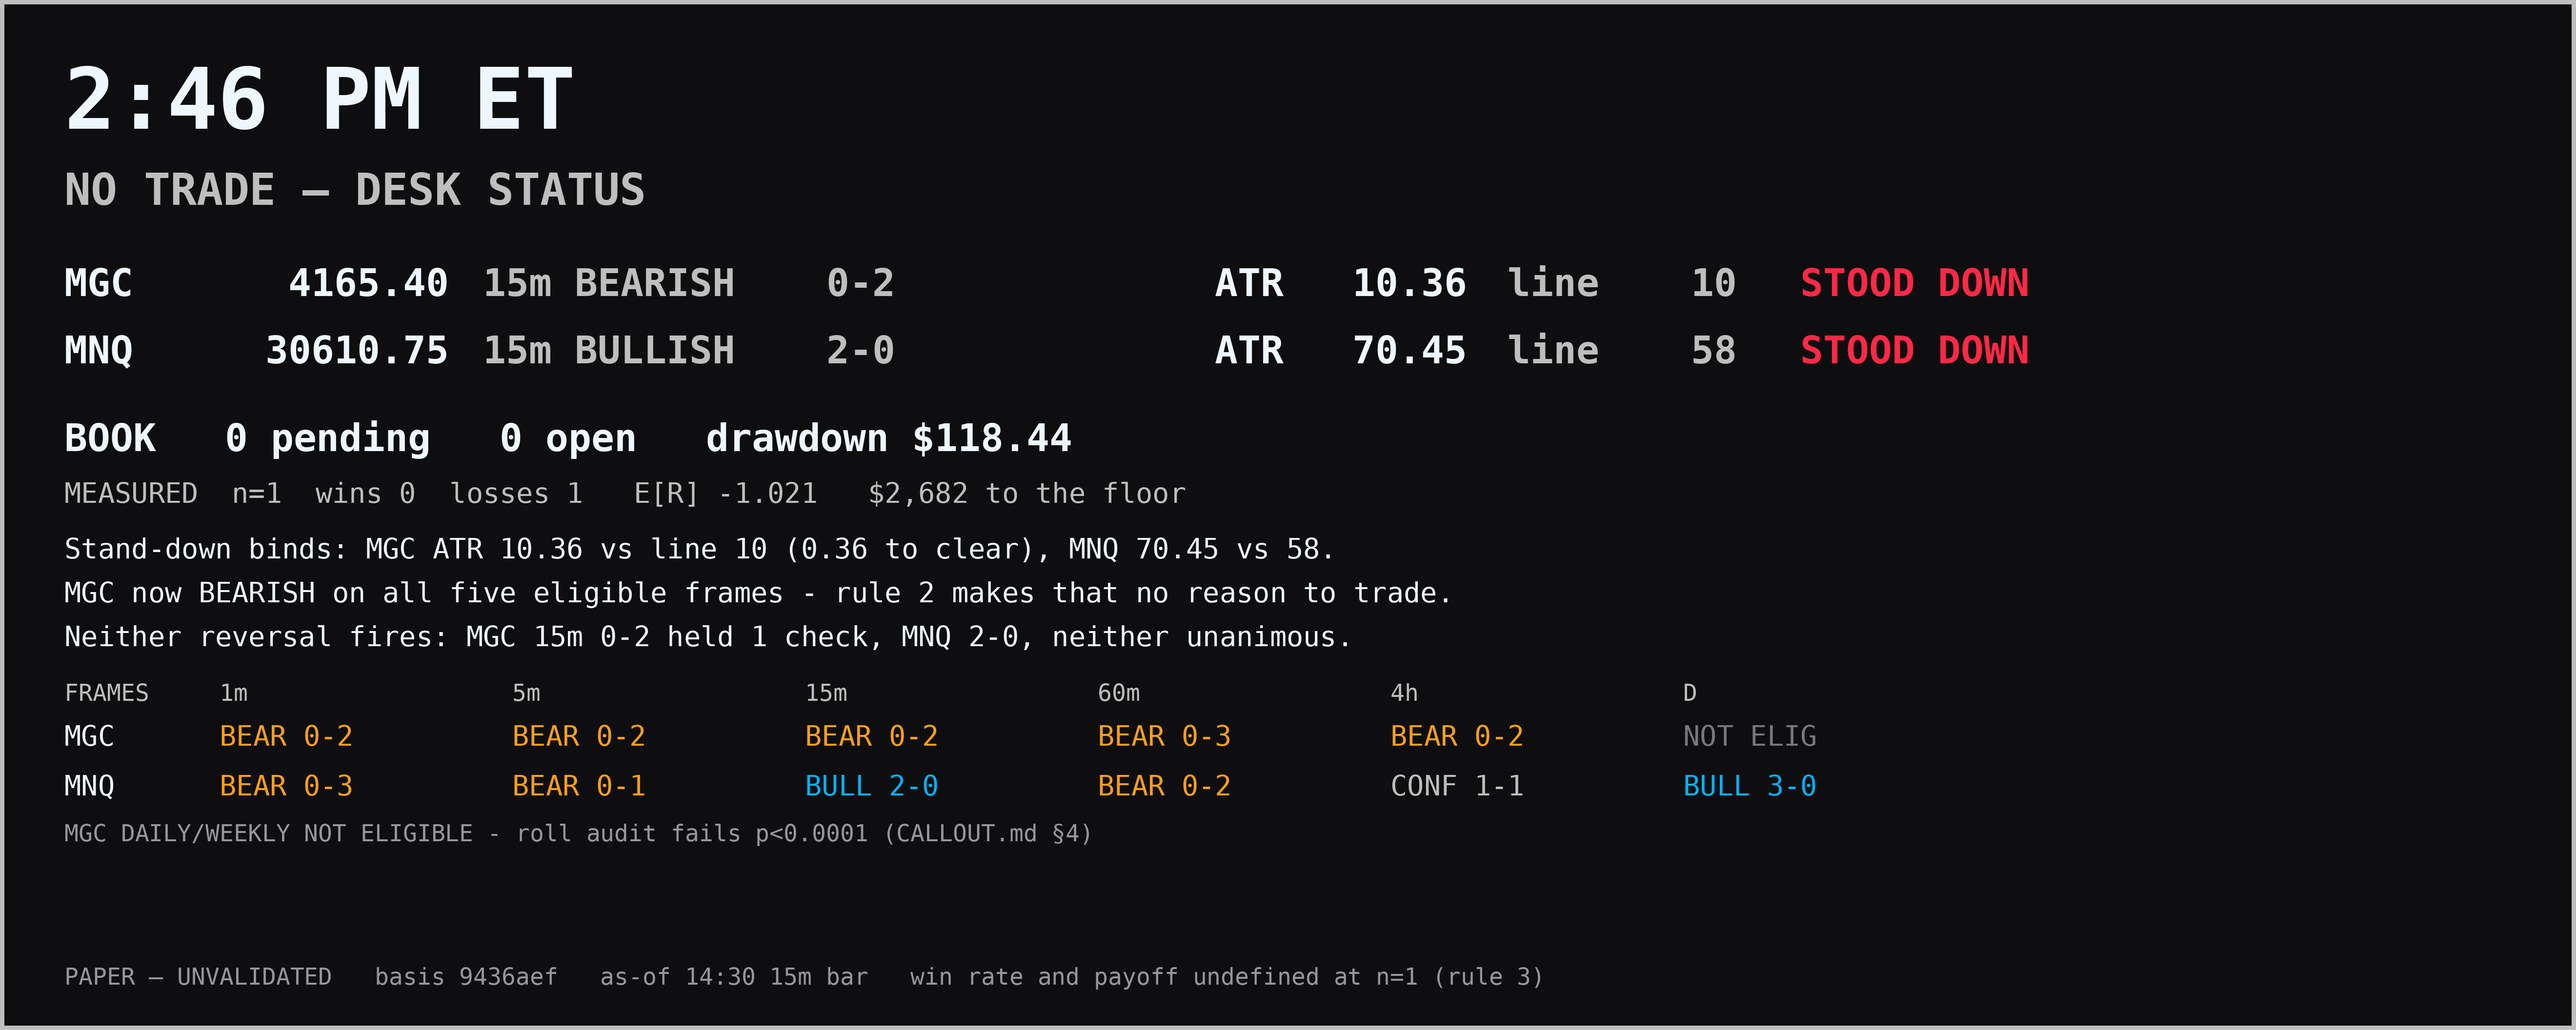
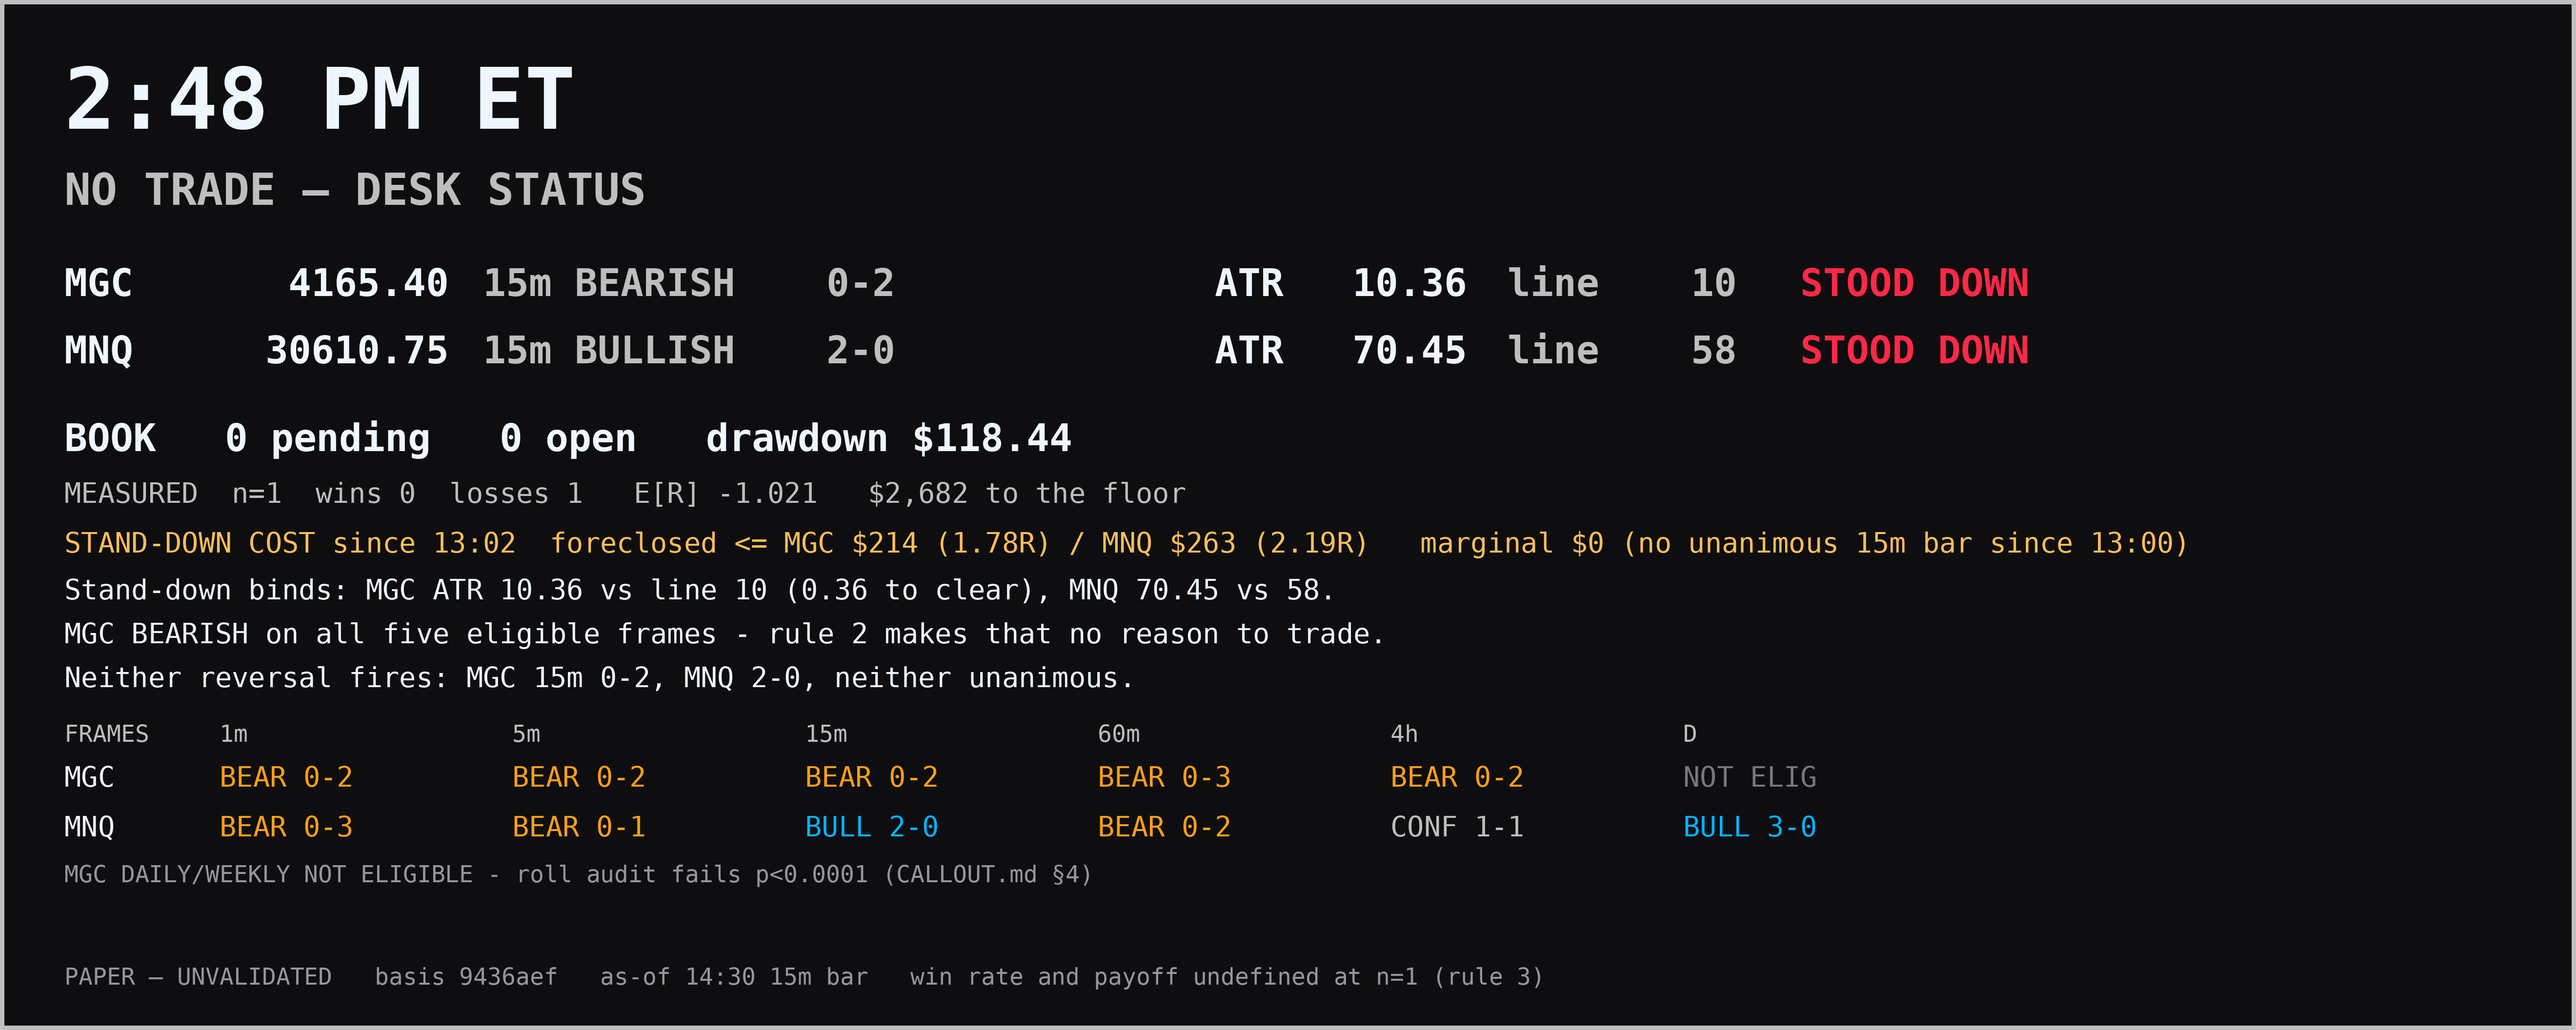
CALL desk: DECISIONS.md - every veto and change now priced with foreclosed/marginal/realized columns (N218, owner's instruction)
- nothing in this desk recorded a REFUSAL, so vetoes looked free and won by default
- stand-down 13:02-14:48: foreclosed <= MGC $214 (1.78R) / MNQ $263 (2.19R), marginal $0
  because zero unanimous 15m bars printed since 13:00 - luck from three overlapping failures,
  not vindication
- the expensive row is 09:30-11:30 declining the trend on 'extended move': MGC $902/ct,
  MNQ $805/ct, marginal equal to the upper bound because the gate was unsatisfiable (N194)
- status card now carries an amber STAND-DOWN COST line whenever a veto binds

Claude-Session: https://claude.ai/code/session_01EE6PFk7fGa2tM4KP6dpfWD

diff --git a/workspace/paper/CALL/status_card.py b/workspace/paper/CALL/status_card.py
@@ -59,7 +59,12 @@ def gather() -> dict:
             "cap_x": CAP / (a * SPEC[sym]["pv"]),
         })
     basis = (HERE / "BASIS").read_text().strip()
-    return {"state": st, "pending": pending, "rows": rows, "basis": basis}
+    cost = ""
+    try:
+        cost = (HERE / "standdown_cost.txt").read_text().strip()
+    except OSError:
+        pass
+    return {"state": st, "pending": pending, "rows": rows, "basis": basis, "cost": cost}
 
 
 def render(out: pathlib.Path, reason: str) -> pathlib.Path:
@@ -105,7 +110,14 @@ def render(out: pathlib.Path, reason: str) -> pathlib.Path:
             f"MEASURED  n={len(closed)}  wins {len(wins)}  losses {len(closed)-len(wins)}"
             f"   E[R] {exp:+.3f}   ${2800 - st['drawdown']:,.0f} to the floor",
             font=f_sm, fill=las)
-    y += C.sc(38)
+    y += C.sc(34)
+    # THE PRICE OF THE CAUTION. A veto that is never costed always looks free (DECISIONS.md),
+    # so when a stand-down binds the card carries what it has foreclosed since it went on -
+    # the movement actually available, as an upper bound, beside the marginal cost given that
+    # the reversal gate may not have fired at all. The owner should not have to ask.
+    if any(r["stood"] for r in d["rows"]) and d.get("cost"):
+        dr.text((C.sc(44), y), d["cost"], font=f_sm, fill=(255, 190, 90))
+        y += C.sc(32)
     for line in reason.split("\n")[:3]:
         dr.text((C.sc(44), y), line, font=f_sm, fill=C.WHITE)
         y += C.sc(30)

diff --git a/workspace/paper/CALL/DECISIONS.md b/workspace/paper/CALL/DECISIONS.md
@@ -1,0 +1,70 @@
+# DECISION LEDGER — every call, every veto, every change, with what it cost
+
+Owned by agent CALL. Created 2026-09-28 at the account owner's instruction:
+
+> *"keep in mind that every call and stand down is an action you are making. please understand
+> that everything has an opportunity loss and i would like you to reflect everytime you change
+> your decision or make an update."*
+
+**He is right and the omission was structural.** `journal.jsonl` records plans. `state.json`
+records fills. **Nothing recorded a refusal**, so the desk's entire afternoon — eleven straight
+checks of "empty book, measured reason" — left no trace that any decision had been made at all.
+A veto that costs nothing to write and is never priced will always look free, and will therefore
+always win the argument against a trade. That is not conservatism; it is an accounting error
+with a direction.
+
+**The rule from here: every decision gets a row, and every row carries its cost.** A stand-down
+is an action. A rule installed is an action. A cadence change is an action. Changing my mind is
+an action, and the reflection is part of the change, not an optional extra afterwards.
+
+---
+
+## How cost is measured, so it cannot be argued into whatever suits me
+
+Three columns, all computable, none requiring me to imagine a trade I did not write:
+
+- **FORECLOSED** — what the decision made impossible. For a veto, the movement available in its
+  window, in points and dollars and R at the maximum permitted stop. This is an **upper bound**:
+  it assumes a perfect entry at the turn, which nobody gets.
+- **MARGINAL** — what it cost *given the rest of the machinery*. If the desk's own gate would
+  have produced no plan in that window anyway, the veto's marginal cost is **zero**, and saying
+  so is not an excuse, it is the arithmetic.
+- **REALIZED** — actual dollars in `state.json`. Only fills produce this.
+
+Upper bound and marginal are different numbers and I will report both, because quoting only
+the second is how a veto flatters itself and quoting only the first is how a trade does.
+
+---
+
+## 2026-09-28
+
+| # | time | decision | foreclosed (upper bound) | marginal | realized |
+|---|---|---|---|---|---|
+| 1 | 08:00 | **CALL-0005 registered** MNQ LONG limit 30595.88 | — | — | $0 (expired unfilled) |
+| 2 | 09:30–11:30 | **Declined ~10 checks on "extended move"** through the session's largest decline | **MGC 90.20 pts = $902/ct; MNQ 402.75 pts = $805/ct** | **the full amount — the gate was unsatisfiable (N194 Cause 1), so nothing else would have stopped a trade** | $0 |
+| 3 | 11:35 | **Breakout prohibition installed** (N196) | every trend-continuation entry, permanently | measured **z −2.61 to −4.72 vs random in 4/4 cells**; expected value of the foreclosure is **positive** | — |
+| 4 | 11:37 | **CALL-0006 registered** MNQ SHORT | — | — | **−$118.44, −1.021R** |
+| 5 | 11:52 | **Unreachable-void rule installed** (N202), voided CALL-0001 | CALL-0001's remaining chance: **~6% measured probability of being reached at all** | ≈ $0 at a 6% reach rate | $0 |
+| 6 | 12:33 | **resolve.py entry-bar stop fix** | — | — | **turned a phantom open position into the −$118.44 loss that had actually happened.** Cost me the number; the number was already true |
+| 7 | 13:02 | **Volatility stand-down installed** (N214) | **MGC 21.40 pts = $214 = 1.78R; MNQ 131.50 pts = $263 = 2.19R** at max permitted stops | **$0 — zero unanimous 15m bars on either symbol since 13:00, so the reversal gate could not have fired and no plan would have existed** | $0 |
+| 8 | 13:04 | Cadence 5 min → 2 min (owner) | — | — | — |
+| 9 | 14:31 | **status_card.py — a card every check** (N217) | — | reversed a **two-hour communication blackout** on the only channel the owner reads | — |
+| 10 | 14:42 | Card moved to the bottom of the response (owner) | — | — | — |
+
+### What the tally actually says
+
+**Row 2 is the expensive one and it is not close.** Declining the morning trend cost an upper
+bound of **$902 and $805 per contract**, and its marginal cost was the *full* amount, because
+N194 established the gate could never have said yes — so no other part of the machinery would
+have caught it either. Every other decision on this sheet is noise beside it.
+
+**Row 7, the stand-down I have been quoting eleven times an hour, has a marginal cost of zero
+so far.** Not because the veto was wise but because **three failures overlapped**: the gate
+couldn't fire, the cadence was dead for 44 minutes of the window, and the best legs (13:05–13:15)
+fell inside that outage. That is luck, not vindication, and the moment a unanimous 15m bar
+prints while the stand-down is on, this row starts costing real money and I will say so on the
+card that check.
+
+**Row 6 is worth keeping visible.** Fixing the resolver *added* a loss to my own record. A
+change that can only make my numbers worse is the only kind I can make mid-session without
+suspicion, and it is the shape every future change should have.

diff --git a/workspace/paper/CALL/NOTES.md b/workspace/paper/CALL/NOTES.md
@@ -7806,3 +7806,61 @@ a number there would smuggle it back in.
 CHECK_PROCEDURE.md now carries the rule: **every check sends a card — plan cards when plans
 exist, the status card when they do not. If a check ends without a card, the check did not
 report, whatever was written.** The text report stays as the record; it is not the delivery.
+
+# N218 — 14:48, the owner's third correction: a stand-down is an ACTION, and I never priced one
+
+Owner, verbatim: *"keep in mind that every call and stand down is an action you are making.
+please understand that everything has an opportunity loss and i would like you to reflect
+everytime you change your decision or make an update."*
+
+**The omission was structural, not a lapse on one day.** `journal.jsonl` records plans.
+`state.json` records fills. **Nothing in this desk recorded a refusal.** So eleven consecutive
+checks of "empty book, measured reason" left no trace that any decision had been taken — and a
+veto costs nothing to write, so if it is never priced it looks free and therefore wins every
+argument against a trade by default. That is an accounting error with a direction, and I built
+two vetoes into the procedure today without once asking what either one costs.
+
+## Priced, now, with both numbers
+
+`DECISIONS.md` created, every decision of the day given a row and three columns: FORECLOSED
+(upper bound from the tape), MARGINAL (cost given the rest of the machinery), REALIZED (dollars
+in `state.json`). Reporting only the marginal is how a veto flatters itself; reporting only the
+upper bound is how a trade does. Both, always.
+
+**The volatility stand-down, 13:02 to now:**
+
+    foreclosed (upper bound)   MGC 21.40 pts = $214 = 1.78R   MNQ 131.50 pts = $263 = 2.19R
+    marginal                   $0
+
+Marginal zero because **zero unanimous 15m bars printed on either symbol since 13:00** — the
+reversal gate could not have fired, so no plan would have existed to veto. Reconstructed bar by
+bar, not asserted. **But that is luck, not vindication**: three failures overlapped — the gate
+couldn't fire, the cadence was dead for 44 of those minutes, and the best legs (13:05-13:15)
+fell inside that outage. The first unanimous bar that prints while the stand-down is on, this
+starts costing real money, and it goes on the card that check.
+
+## The row that actually matters, and it is not the stand-down
+
+| decision | foreclosed | marginal |
+|---|---|---|
+| **09:30-11:30 declining ~10 checks on "extended move"** | **MGC $902/ct, MNQ $805/ct** | **the full amount** |
+
+Marginal equals the upper bound there because N194 established the gate was *unsatisfiable* on a
+continuation day — no other part of the machinery would have caught it either. **Every other
+decision on the sheet is noise beside that one**, including the stand-down I have been quoting
+eleven times an hour, and I would not have seen the proportions without being told to write
+them down.
+
+One row worth keeping visible for its shape: **fixing `resolve.py`'s entry-bar stop check at
+12:33 ADDED a loss to my own record** (−$118.44 that was already true but unrecorded). A change
+that can only make my own numbers worse is the only kind that is safe to make mid-session, and
+it is the form every future change should take.
+
+## Installed
+
+- `DECISIONS.md` — the ledger, one row per decision, three cost columns.
+- CHECK_PROCEDURE.md — **every decision gets a row; a change of mind is a decision; the
+  reflection is part of making the change, not an optional extra afterwards.**
+- `status_card.py` — when a stand-down binds, the card carries an amber **STAND-DOWN COST** line
+  with the foreclosed upper bound and the marginal cost side by side, so the price of the desk's
+  caution is visible without anyone asking for it.

diff --git a/workspace/paper/CALL/CHECK_PROCEDURE.md b/workspace/paper/CALL/CHECK_PROCEDURE.md
@@ -849,3 +849,35 @@ above a wall of text he is scrolling past.
 **The text report still goes in the terminal and the notes still go in `NOTES.md`** — they are
 the record and the record matters. But they are not the delivery. **If a check ends without a
 card having been sent, the check did not report, whatever was written.**
+
+## EVERY DECISION IS AN ACTION AND EVERY ACTION HAS A COST. Price it, in `DECISIONS.md`.
+
+Added 2026-09-28 at the owner's instruction: *"every call and stand down is an action you are
+making… everything has an opportunity loss and i would like you to reflect everytime you change
+your decision or make an update."*
+
+**The omission this fixes was structural, not an oversight of mine on one day.** `journal.jsonl`
+records plans, `state.json` records fills, and **nothing recorded a refusal.** Eleven consecutive
+checks of "empty book, measured reason" left no trace that a decision had been made at all. A
+veto costs nothing to write, so if it is never priced it always looks free, and it therefore
+wins every argument against a trade by default. That is an accounting error with a direction.
+
+**The rule.** Every decision gets a row in `DECISIONS.md` carrying three separate numbers:
+
+- **FORECLOSED (upper bound)** — the movement available in the decision's window, in points,
+  dollars and R at the maximum permitted stop. Assumes a perfect entry at the turn, which
+  nobody gets. Computable from the tape; never an estimate of a trade I did not write.
+- **MARGINAL** — the cost *given the rest of the machinery*. If the reversal gate produced no
+  unanimous bar in that window, no plan could have existed and the veto's marginal cost is
+  **zero**. Stating that is arithmetic, not an excuse.
+- **REALIZED** — actual dollars in `state.json`. Only fills produce this.
+
+**Report both the upper bound and the marginal number, always.** Quoting only the marginal is
+how a veto flatters itself; quoting only the upper bound is how a trade does.
+
+**A change of mind is a decision too.** Installing a rule, retiring a plan, changing the cadence,
+changing what gets reported — each gets a row, and the reflection is part of making the change,
+not something added afterwards if there is time.
+
+**On the card.** When a stand-down is binding, the card carries what it has foreclosed so far.
+The owner should be able to see the price of the desk's caution without asking for it.
